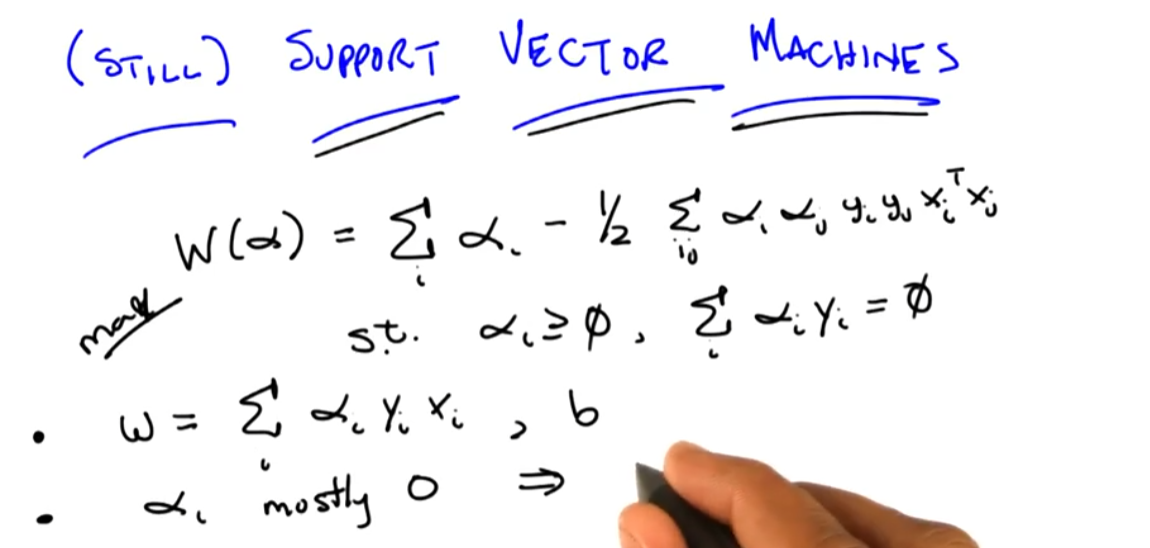
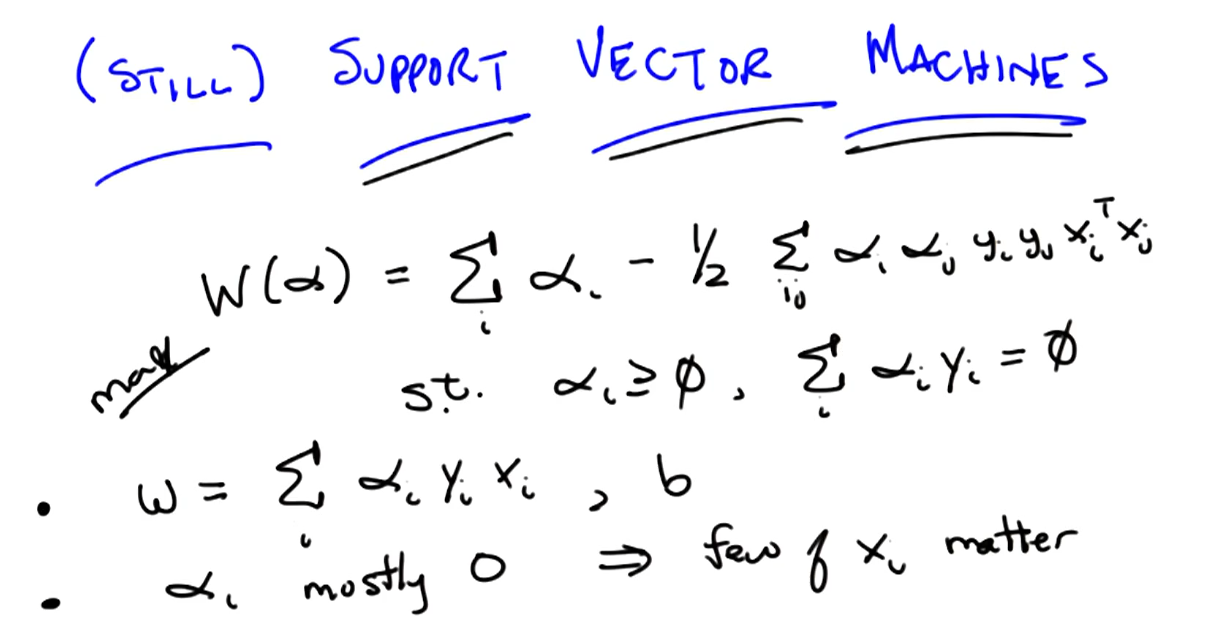
update

diff --git a/SL6-SVM.md b/SL6-SVM.md
@@ -2,9 +2,14 @@
 ## Find the best line:
 - Linear classifier: y = wTx + b
     - Even in multiple dimension hyperplane
-    -  ![00]()
+    -  ![00](https://raw.githubusercontent.com/suereey/ML7641_Fall2021_StudyNotes/main/Screenshot/SL6/00.PNG)
     - **Decision Boundry** 0 = wTx + b
     - Quiz: what is the distance of the two planes?
-        - ![01]()
+        - ![01](https://raw.githubusercontent.com/suereey/ML7641_Fall2021_StudyNotes/main/Screenshot/SL6/01.PNG)
         - Basically, this result means, sbustract the two equations. It is the difference of x1 and x2 projected on the normlized w vector.
         - Maximize the distance between x1 and x2 by varing w. **Find the parameter of the hyperplane that maximize the distance ("margin" part in the equation), while still consistent with the data.
+## SVM: What are are trying to solve
+- instead of doing maximum, do minimum, them convert the problem into quatratic programming problem, which has a particular form. (maximize the alpha function)
+    - ![02](https://raw.githubusercontent.com/suereey/ML7641_Fall2021_StudyNotes/main/Screenshot/SL6/02.PNG)
+- the data points for which the corresponding alpha is non-zero, those are support vectors.
+    - ![03]()
